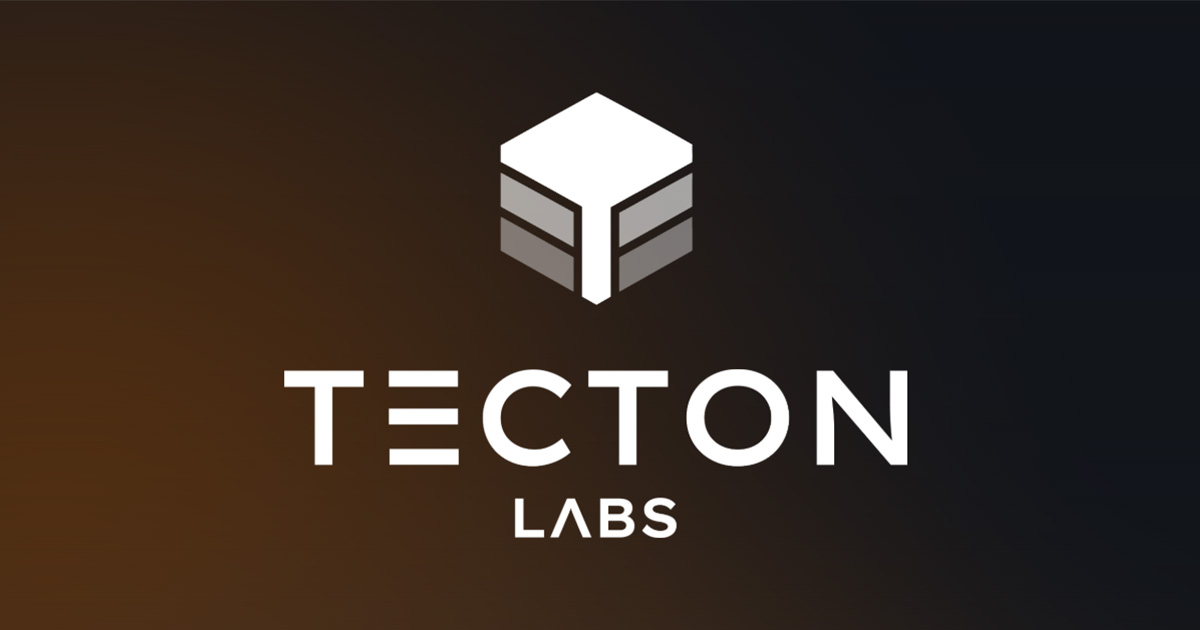
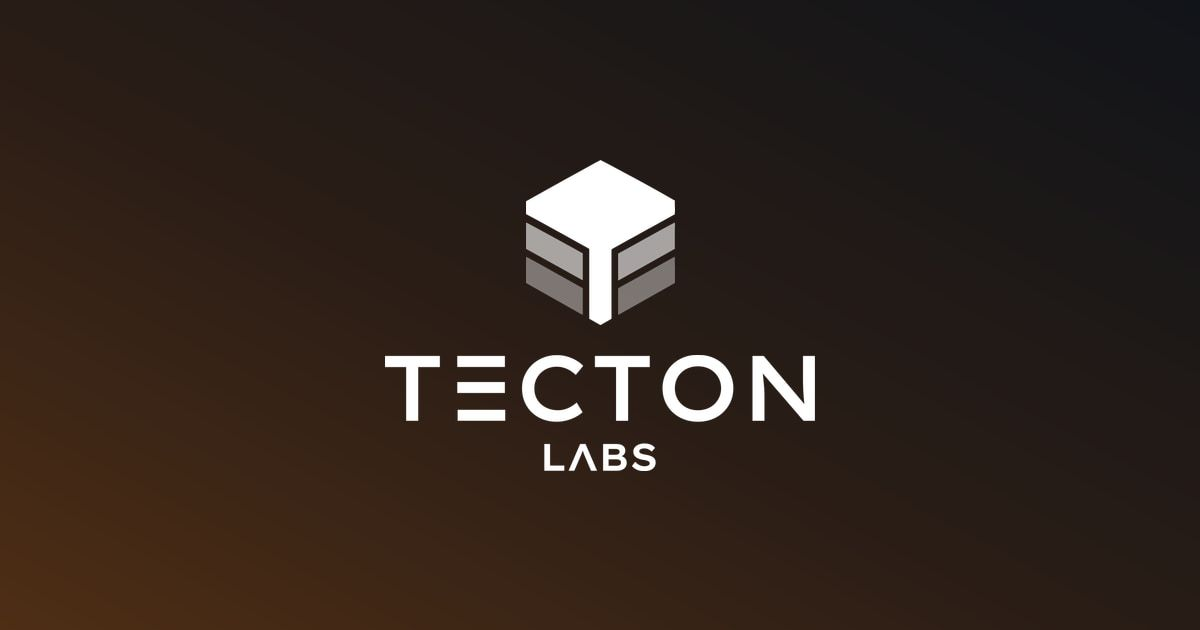
Título "Software e Infraestructura" e imagen de links apta para WhatsApp
- Título: "Tecton Labs — Software e Infraestructura en Mendoza"
- links_image.jpg con el logo más compacto para que el recorte cuadrado de WhatsApp no lo corte
- og:image con ?v=2 para evitar la miniatura vieja en caché

Changed region(s): [[0.2158, 0.5429, 0.7708, 0.754], [0.4008, 0.1508, 0.5858, 0.5127], [0.4008, 0.7841, 0.5858, 0.8746]]

diff --git a/src/i18n/en.ts b/src/i18n/en.ts
@@ -3,7 +3,7 @@ import type { Dictionary } from './es';
 // Borrador: todavía no se publica /en/ (ver docs/plan-mejoras-contenido.md).
 export const en: Dictionary = {
 	meta: {
-		title: 'Tecton Labs — Software engineering from Mendoza, Argentina',
+		title: 'Tecton Labs — Software & Infrastructure in Mendoza, Argentina',
 		description:
 			'We build, modernize and operate software for businesses: custom applications, integrations, and cloud and on-premises infrastructure. Team based in Mendoza, Argentina.',
 		ogLocale: 'en_US',

diff --git a/src/i18n/es.ts b/src/i18n/es.ts
@@ -1,6 +1,6 @@
 export const es = {
 	meta: {
-		title: 'Tecton Labs — Desarrollo de software en Mendoza',
+		title: 'Tecton Labs — Software e Infraestructura en Mendoza',
 		description:
 			'Construimos, modernizamos y operamos software para empresas: aplicaciones a medida, integraciones e infraestructura cloud y on-premise. Equipo en Mendoza, Argentina.',
 		ogLocale: 'es_AR',
